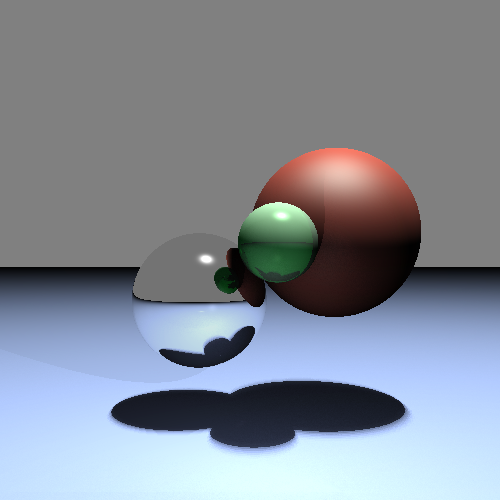
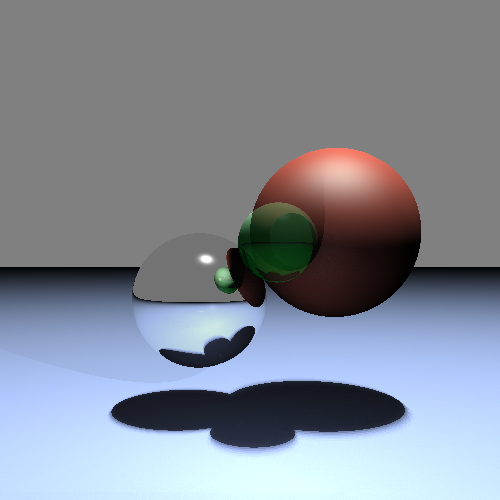
transparent the motherfucker

Changed region(s): [[0.48, 0.39, 0.66, 0.57], [0.42, 0.54, 0.48, 0.57]]

diff --git a/src/RayTracing/ColorUtils.java b/src/RayTracing/ColorUtils.java
@@ -21,7 +21,7 @@ public class ColorUtils {
 
         //System.out.println("before getDiffuseColor");
         c = CalcColor(scene, hit, mat, normal, ray);
-        //c = GetTransparency(hit, scene, mat, ray, c);
+        c = GetTransparency(hit, scene, mat, ray, c);
         Color ref = GetReflection(ray, hit, mat, scene.Settings.MaxRecursionLevels, scene);
         c = plus(c,ref);
         // ADD REflection & Transparency
@@ -122,7 +122,7 @@ public class ColorUtils {
         }
         Vector norm = closestFromHit != null ? closestFromHit.Normal : null;
         Color color = CalcColor(scene, closestFromHit, newMat, norm, reflecionRay);
-        //color = GetTransparency(closestFromHit, scene, newMat, reflecionRay, color);
+        color = GetTransparency(closestFromHit, scene, newMat, reflecionRay, color);
         Color reflection = GetReflection(reflecionRay, closestFromHit, newMat, recursion-1, scene);
         color = plus(color, reflection);
         color = mult(color, mat.RelectionColor);
@@ -131,55 +131,39 @@ public class ColorUtils {
     }
 
     public static Color GetTransparency(Hit hit, Scene scene, Material currentMat, Ray ray, Color color){
-        if(hit == null || currentMat == null || currentMat.Transparency ==0.0){
+        if(hit == null || currentMat == null || currentMat.Transparency ==0.0){ // if the shape is not transparent
             return color;
         }
-        Shape currentSurface = hit.Surface;
-        Shape afterSurface = null;
-        int objects = scene.Planes.size() + scene.Spheres.size()*2 + scene.Boxes.size()*2;
-        int count = 0;
-        Ray transRay = new Ray(hit.HitPoint, ray.Direction);//construct a ray from the hit point in the same direction
-        List<Hit> transHits = Hit.FindHits(transRay, scene);
+        Vector epsilon = Vector.VectorAddition(hit.HitPoint, Vector.ScalarMultiply(ray.Direction, 0.00001));
+        Ray transRay = new Ray(epsilon, ray.Direction);//construct a ray from the hit point in the same direction
+        List<Hit> transHits = Hit.FindHits(transRay, scene); // find the hits after current hit point
         Material matAfter = null;
         Hit hitAfter =null;
         if(transHits.size() >0){
-            hitAfter = Hit.FindClosest(transHits, transRay.Origin);
-            matAfter = hitAfter.GetMaterial(scene);
-            afterSurface = hitAfter.Surface;
+            hitAfter = Hit.FindClosest(transHits, transRay.Origin); // the closest hit after the current one
+            matAfter = hitAfter.GetMaterial(scene); // the next material
         }
-        float transparency = (float) currentMat.Transparency;
+        float transparency = (float) currentMat.Transparency;//the current material trans parameter
+        //calculate the 1st layer according to formula
         color = mult(color, (1-transparency));
         Vector normal = hitAfter!= null ? hitAfter.Normal : null;
         Color after = mult(CalcColor(scene, hitAfter, matAfter, normal , transRay), transparency);
         color = plus(color, after);
-        while(transHits.size() >0 && count < objects/2) {
-            hitAfter = Hit.FindClosest(transHits, transRay.Origin);
-            matAfter = hitAfter.GetMaterial(scene);
-            afterSurface = hitAfter.Surface;
-            transparency = currentMat != null ? (float) currentMat.Transparency : 0.0F;
-            if (hitAfter == null || matAfter.Transparency == 0) {
+        while(transHits.size() > 0){
+            if(hitAfter == null || matAfter == null || matAfter.Transparency == 0.0){
                 return color;
             }
-            if(afterSurface.equals(currentSurface)){
-                transRay = new Ray(hitAfter.HitPoint, ray.Direction);
-                transHits = Hit.FindHits(transRay, scene);
-                if(transHits.size() >0){
-                    hitAfter = Hit.FindClosest(transHits, transRay.Origin);
-                    currentMat = hitAfter.GetMaterial(scene);
-                    currentSurface = hitAfter.Surface;
-                }
-                count++;
-                continue;
-            }
-            color = mult(color, (1 - transparency));
-            normal = hitAfter != null ? hitAfter.Normal : null;
-            after = mult(CalcColor(scene, hitAfter, matAfter, normal, transRay), transparency);
-            color = plus(color, after);
-            transRay = new Ray(hitAfter.HitPoint, ray.Direction);
+            transparency = (float) matAfter.Transparency;
+            epsilon = Vector.VectorAddition(hitAfter.HitPoint, Vector.ScalarMultiply(ray.Direction, 0.00001));
+            transRay = new Ray(epsilon, ray.Direction);//construct a ray from the hit point in the same direction
             transHits = Hit.FindHits(transRay, scene);
-            count++;
+            if(transHits.size() == 0){continue;}
+            color = mult(color,1- transparency);
+            hitAfter = Hit.FindClosest(transHits, transRay.Origin);
+            matAfter = hitAfter.GetMaterial(scene);
+            after = mult(CalcColor(scene, hitAfter, matAfter, hitAfter.Normal, transRay),transparency );
+            color = plus(color, after);
         }
-        //System.out.println("exited while in transRay");
         return color;
     }
     public static Color avgColor(List<Color> colors) {
